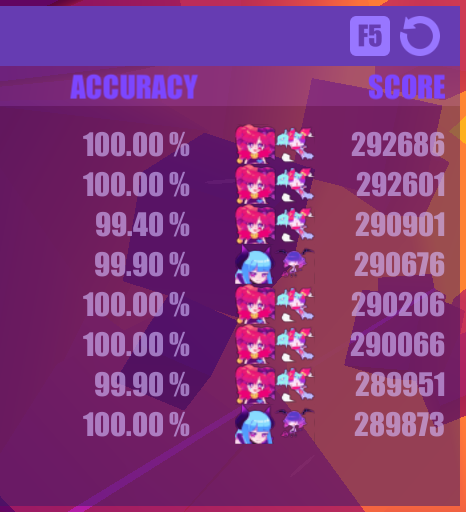
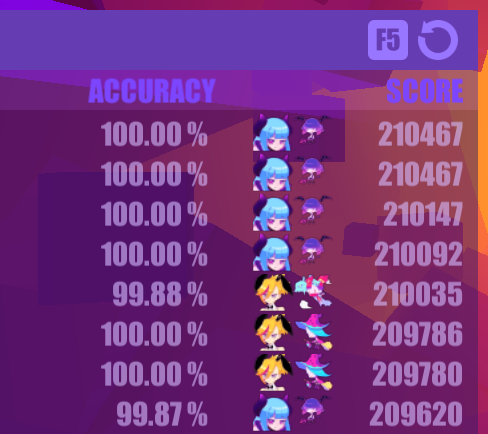
scoreboard mod readme image updated following #3 fix
it's hard to find a scoreboard with multiple characters in it

diff --git a/readme.md b/readme.md
@@ -13,8 +13,7 @@ Mod file: `ScoreboardCharacters.dll`
 
 This mod adds buttons to show charater and elfin used to obtain the score to the in-game scoreboard:
 
-TODO update the image  
-![earlier in the development there were numerical IDs, so that's an improvement](readme-images/scoreboard-characters.png)
+![earlier in the development these were numerical IDs, so that's an improvement](readme-images/scoreboard-characters.png)
 
 These can be clicked, and will set your current character and elfin to these. It will even scroll the selection screens for you.
 
